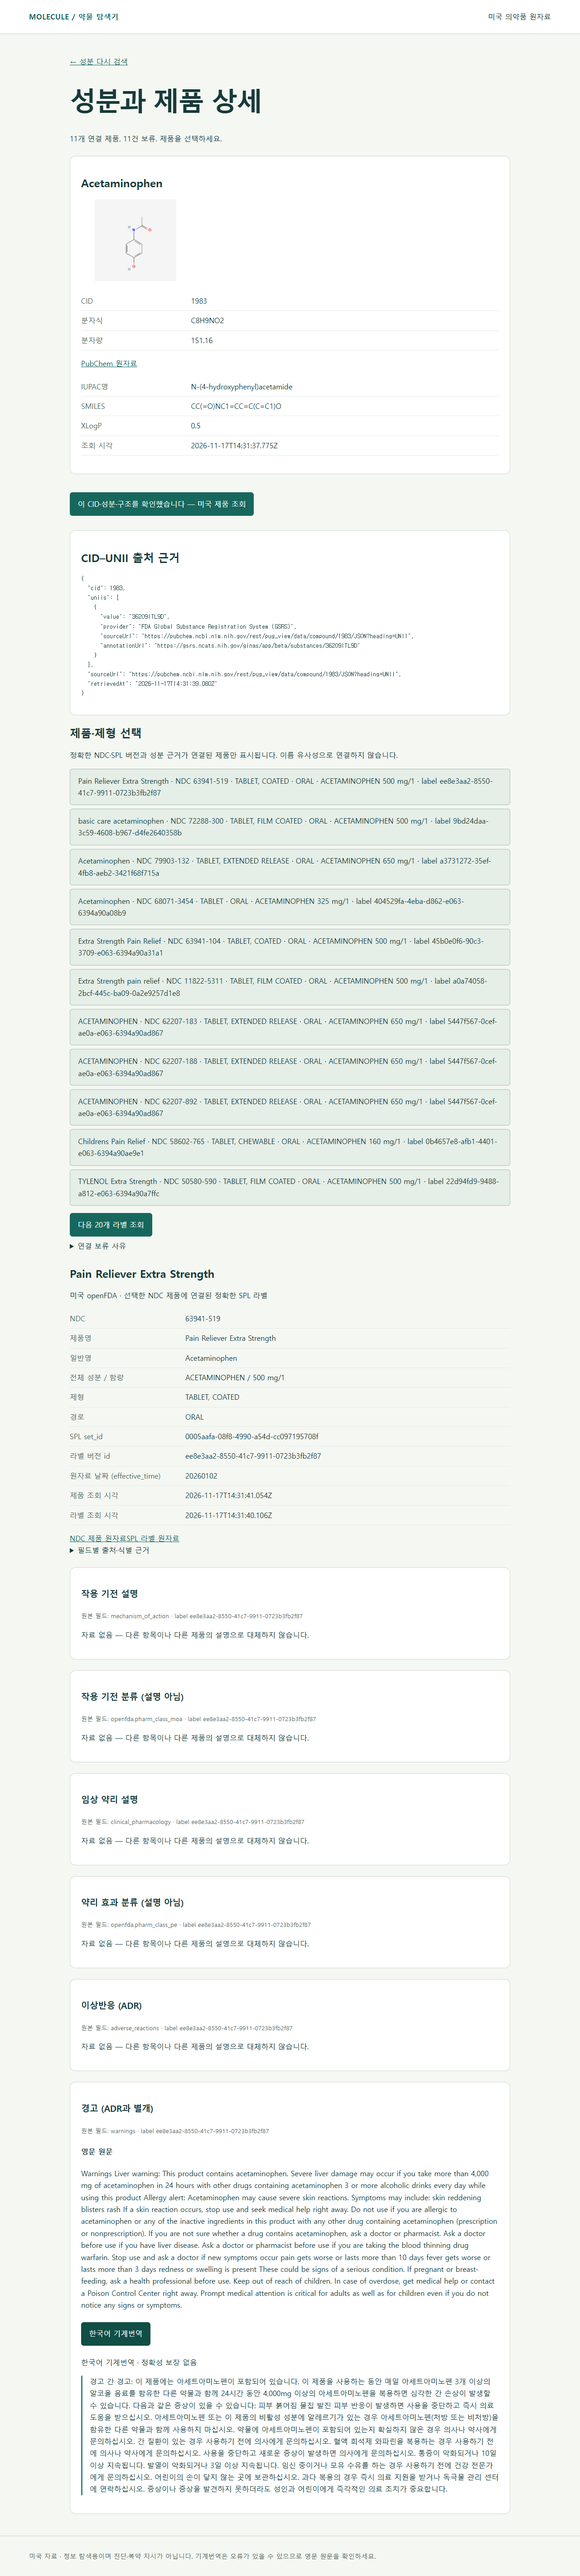
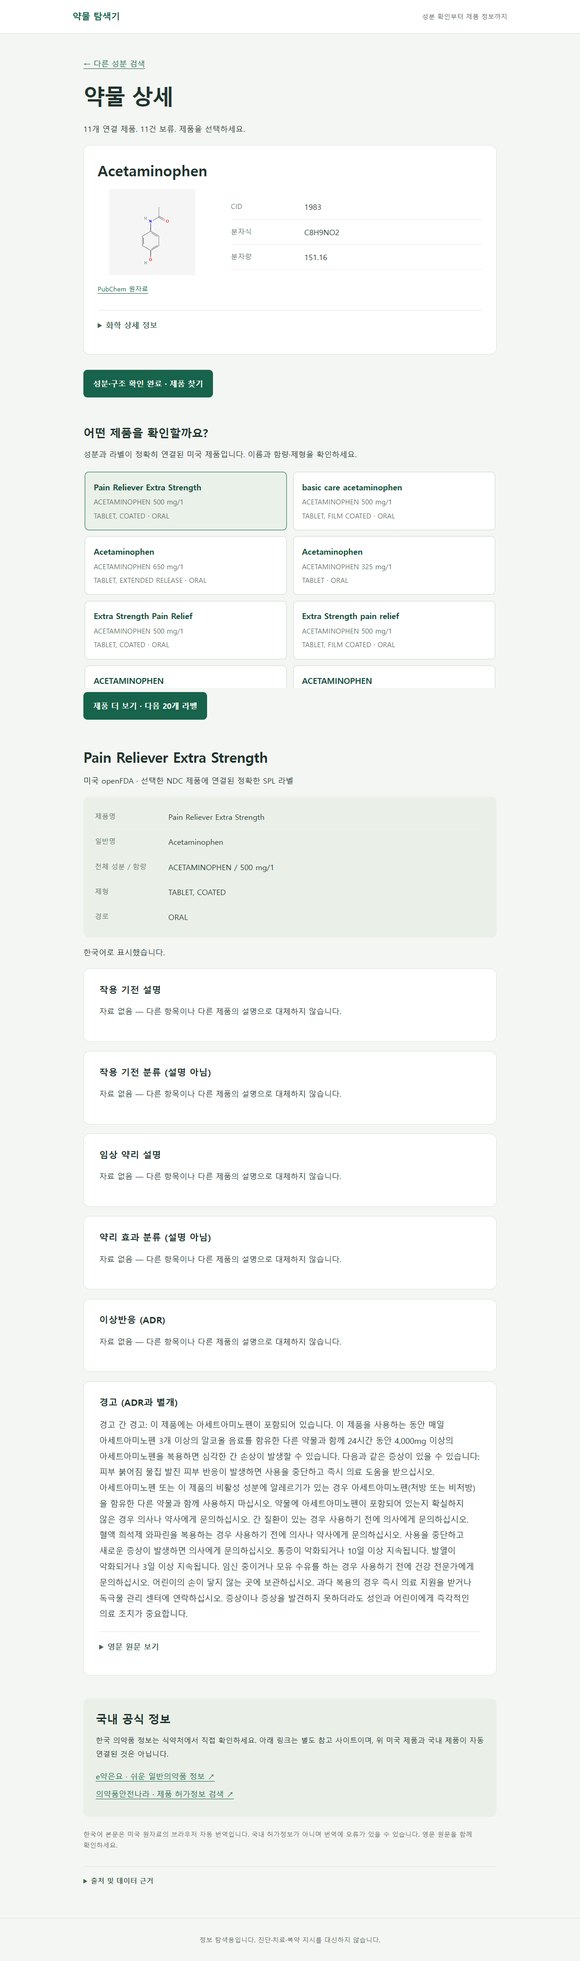
Record public automatic translation and Korean data research verification

Changed region(s): [[0.125, 0.1248, 0.875, 0.9672], [0.125, 0.0, 0.3438, 0.0936], [0.375, 0.0312, 0.4375, 0.0624]]

diff --git a/docs/verification.md b/docs/verification.md
@@ -54,3 +54,11 @@
 - R2: 추가 페이지 조회 실패 후 동일 offset을 재시도할 수 있으며 이전 제품/선택이 유지됩니다.
 - `node tests/image-browser.js`: 5개 추가 시나리오 통과. 실제 dispatch 이후 이미지 취소, 혼합 JSON/PNG 간격, 시간 초과, 디코딩 실패/URL 해제, 상세 확인 중 이미지 유지 및 페이지 offset 0→1(실패)→1(성공)을 검증했습니다. [기록](evidence/image-browser.json), [화면](evidence/image-browser.png).
 - 공개 세 성분 제품 선택 근거: aspirin NDC59726-065; acetaminophen NDC63941-519 / set_id0005aafa-08f8-4990-a54d-cc097195708f / label.id ee8e3aa2-8550-41c7-9911-0723b3fb2f87; ibuprofen NDC59779-438 / set_id00653b7c-7099-487e-9a01-e89781c21323 / label.id4bd1345d-d116-426e-825f-bbf29381746a. 정확한 제형·경로·성분/함량·원문·한국어 번역은 pages.json에 보존합니다.
+
+## 사용자 후속 변경 검증 (2026-11-17)
+
+한국어 중심 가독성, 제품 클릭 즉시 자동 번역, 하단 접힌 출처/원문, 실제 URL·기능·스크린샷 README를 반영했습니다. 식별 검증은 유지했습니다. `npm test` 29/29, 기존 browser 8, image-browser 5, auto-browser 3 시나리오 통과. auto-browser는 user activation 안의 create·동일 모델 promise 재사용·제품 전환·자동 다운로드 실패·원문 열람·재시도를 검증합니다.
+
+실제 Chrome 공개 Pages에서 세 성분 검색·구조·제품 선택·버튼 없는 자동 한국어 번역 완료를 재검증했습니다. pages.json의 9단계 모두 성공, pageerror 없음. 첫 번역 모델 생성이 일시적으로 거부된 별도 로컬 실행도 있었으며 재실행에서는 실제 번역 성공; 모델 가용성을 보장하지 않습니다. 최초 다운로드/실패 상태를 숨기지 않습니다. 스크린샷 pages-2244.png, pages-1983.png, pages-3672.png는 변경된 공개 레이아웃입니다.
+
+국내 공식 자료는 e약은요 공개 검색과 data.go.kr 15075057 공식 문서를 추가 2회 조회했습니다. 공개 검색 4730건/일반의약품 개요 범위 확인, API 무료이나 ServiceKey 필수 확인. 무키 자동 통합·재사용 권한·성분 대응까지 검증된 한국어 상세 자료는 확보하지 못했습니다. 앱은 공식 외부 검색 링크만 제공하며 미국 원자료 번역을 한국 원자료라고 표시하지 않습니다. 상세 조건은 README 표에 기록했습니다.
